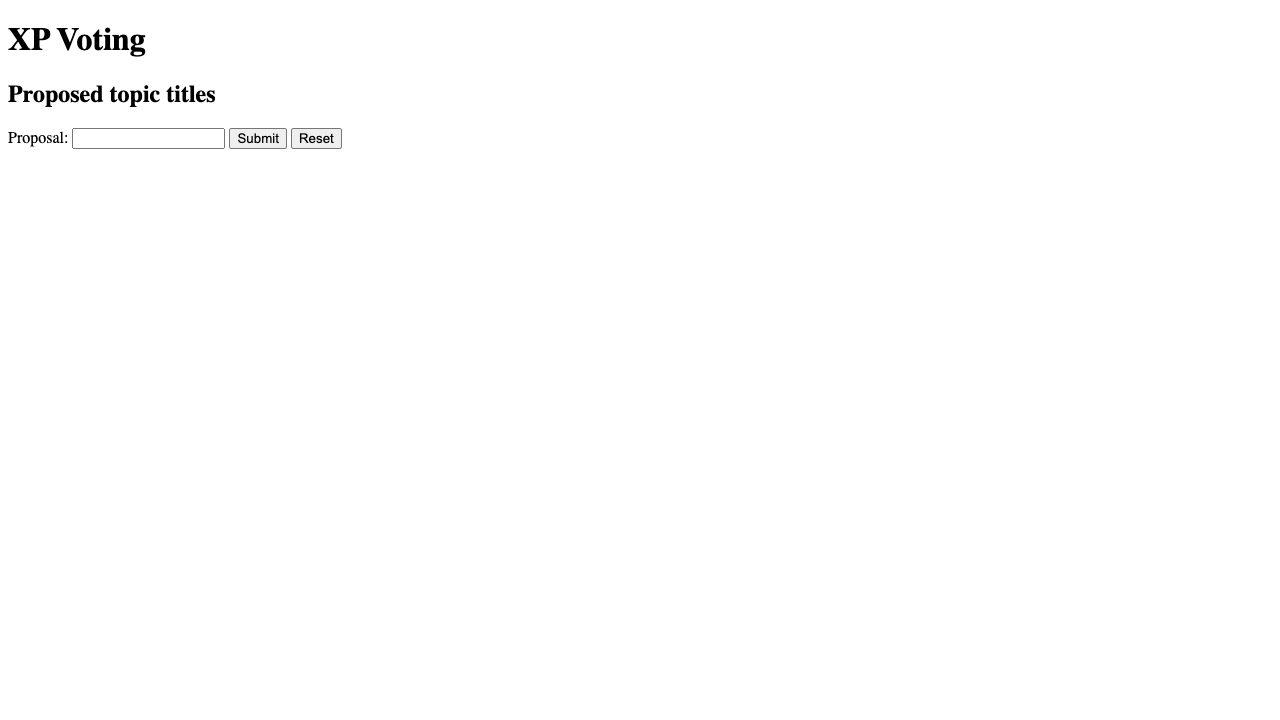
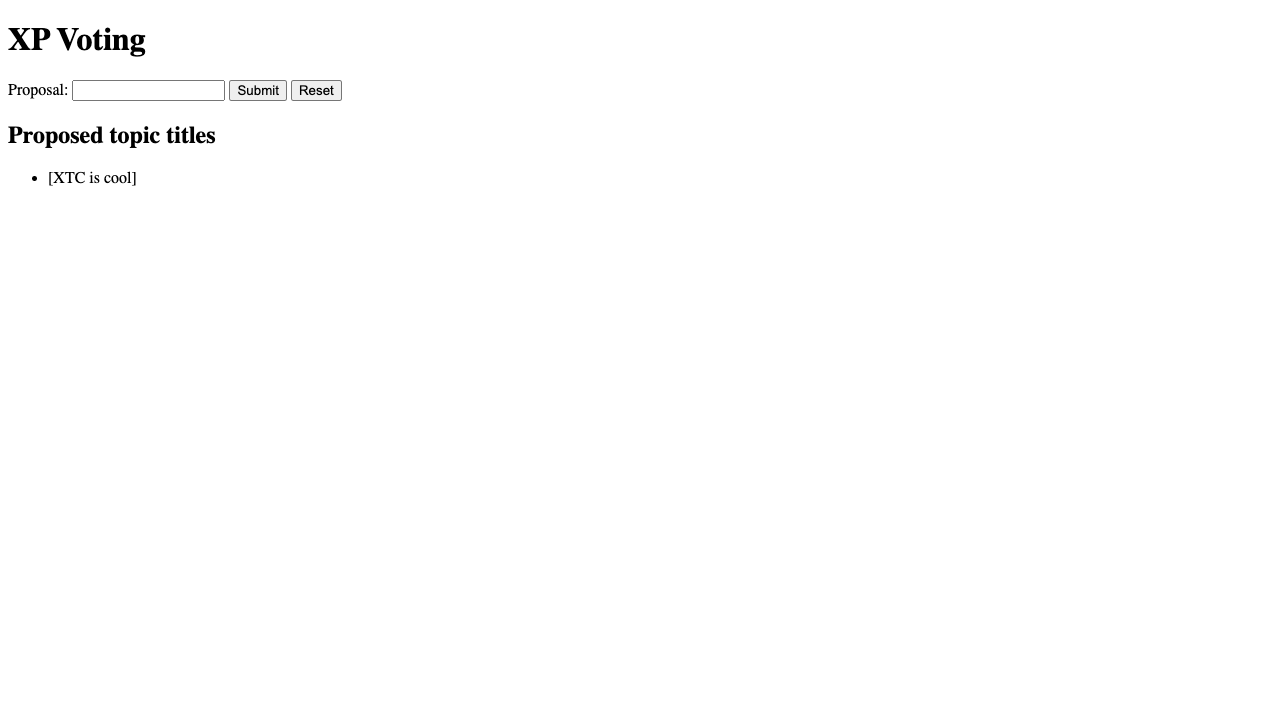
feat: Propose via form and view proposal, closes #5

Changed region(s): [[0.0, 0.1222, 0.2812, 0.2139], [0.0312, 0.2444, 0.0938, 0.275]]

diff --git a/src/main/resources/templates/index.html b/src/main/resources/templates/index.html
@@ -10,12 +10,22 @@
 
 <body>
     <h1>XP Voting</h1>
-    <h2>Proposed topic titles</h2>
-
+    
     <form action="#" th:action="@{/}" th:object="${proposals}" method="post">
-    	<label>Proposal: <input type="text" th:field="*{proposal}" /></label>
+        <label>Proposal: <input type="text" th:field="*{proposal}" /></label>
         <input type="submit" value="Submit" /> <input type="reset" value="Reset" />
     </form>
+    
+    <h2>Proposed topic titles</h2>
+    <ul>
+        <li th:if="${proposalslist.empty}">No topics yet</li>
+        <li th:each="proposal : ${proposalslist}" th:text="${proposalslist}">
+        </li>
+
+
+
+        <!-- Space for list of topics  -->
+    </ul>
 
 </body>
 

diff --git a/src/main/java/com/nickhumberstone/xpvoting/ProposalController.java b/src/main/java/com/nickhumberstone/xpvoting/ProposalController.java
@@ -3,13 +3,30 @@ package com.nickhumberstone.xpvoting;
 import org.springframework.stereotype.Controller;
 import org.springframework.ui.Model;
 import org.springframework.web.bind.annotation.GetMapping;
+import org.springframework.web.bind.annotation.ModelAttribute;
+import org.springframework.web.bind.annotation.PostMapping;
 
 @Controller
 public class ProposalController {
 
+    private ProposalService proposalservice;
+
+    public ProposalController(ProposalService proposalservice) {
+        this.proposalservice = proposalservice;
+    }
+
     @GetMapping("/")
     public String home(Model model) {
         model.addAttribute("proposals", new Proposals());
+        model.addAttribute("proposalslist", proposalservice.proposals());
         return "index";
     }
+
+    @PostMapping("/")
+    public String submitProposal(@ModelAttribute Proposals proposal, Model model) {
+        String proposal2 = proposal.getProposal();
+        proposalservice.addProposal(proposal2);
+        return "redirect:/";
+    }
+
 }

diff --git a/src/main/java/com/nickhumberstone/xpvoting/ProposalService.java b/src/main/java/com/nickhumberstone/xpvoting/ProposalService.java
@@ -2,10 +2,14 @@
 package com.nickhumberstone.xpvoting;
 
 import java.util.List;
+
+import org.springframework.stereotype.Service;
+
 import java.util.ArrayList;
 
 import java.util.Collections;
 
+@Service
 public class ProposalService {
     List<String> proposals = new ArrayList<>();
 

diff --git a/src/main/java/com/nickhumberstone/xpvoting/Proposals.java b/src/main/java/com/nickhumberstone/xpvoting/Proposals.java
@@ -8,4 +8,8 @@ public class Proposals {
         return proposal;
     }
 
+    public void setProposal(String proposal) {
+        this.proposal = proposal;
+    }
+
 }

diff --git a/NOTES.md b/NOTES.md
@@ -9,3 +9,7 @@ Mon Sep 02 20:55:29 BST 2024
 There was an unexpected error (type=Method Not Allowed, status=405).
 Method 'POST' is not supported.
 org.springframework.web.HttpRequestMethodNotSupportedException: Request method 'POST' is not supported
+
+Mon 9 Sep
+Need to fix the list display so each list item isn't the entire list of topics, and is instead one topic of all of them
+Need to add proper CI/CD automated testing
